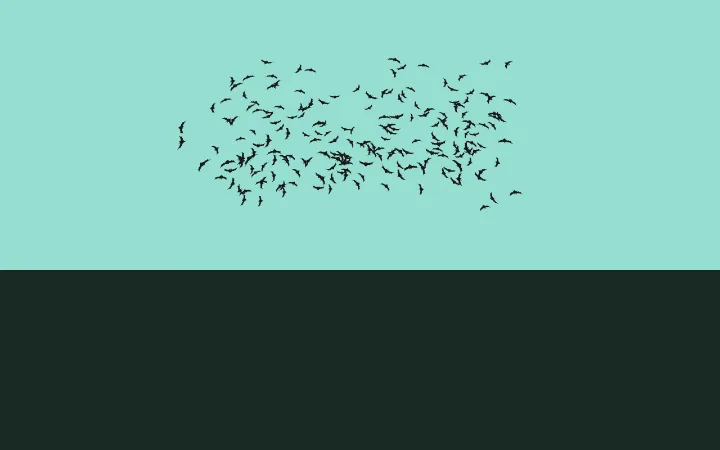
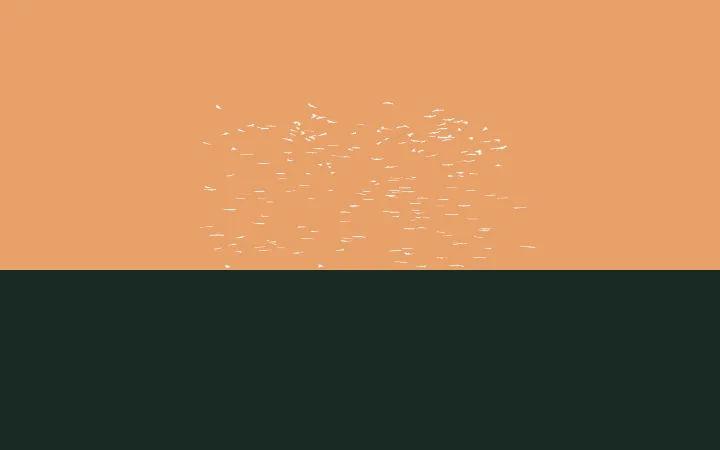
feat: camera and rim light positions, adding fog

diff --git a/src/app/murmuration/murmuration.ts b/src/app/murmuration/murmuration.ts
@@ -61,8 +61,10 @@ export class Murmuration implements AfterViewInit, OnDestroy {
     scene.add(directionalLight);
 
     const rimLight = new THREE.DirectionalLight(CALIBRATION.PALETTE.sun, 1);
-    rimLight.position.set(2, -0.4, 1);
+    rimLight.position.set(3, 1, -3);
     scene.add(rimLight);
+
+    scene.fog = new THREE.Fog(CALIBRATION.PALETTE.fog, 1, 2);
 
     const camera = new THREE.PerspectiveCamera(
       50,
@@ -71,8 +73,8 @@ export class Murmuration implements AfterViewInit, OnDestroy {
       100
     );
 
-    camera.position.set(0, 2.5, 1.5);
-    camera.lookAt(0, 0, 0);
+    camera.position.set(0, -0.3, 3);
+    camera.lookAt(0, 0.5, 0);
 
     const bats = createCauldron();
     const initialDimensions: IThreeTuple = {

diff --git a/src/app/murmuration/batoid/batoid-calibration.ts b/src/app/murmuration/batoid/batoid-calibration.ts
@@ -1,8 +1,9 @@
 export const PALETTE = {
-  sky: 0x96ded1,
+  sky: 0xe8a06a, // warmer sky value
   ground: 0x1a1410, // altering ground to account for dusk
   sun: 0xffa860, //moving towards dusk
   batoid: 0x2b2b30,
+  fog: 0xf2f8f7,
 } as const;
 
 export const CAULDRON = {
